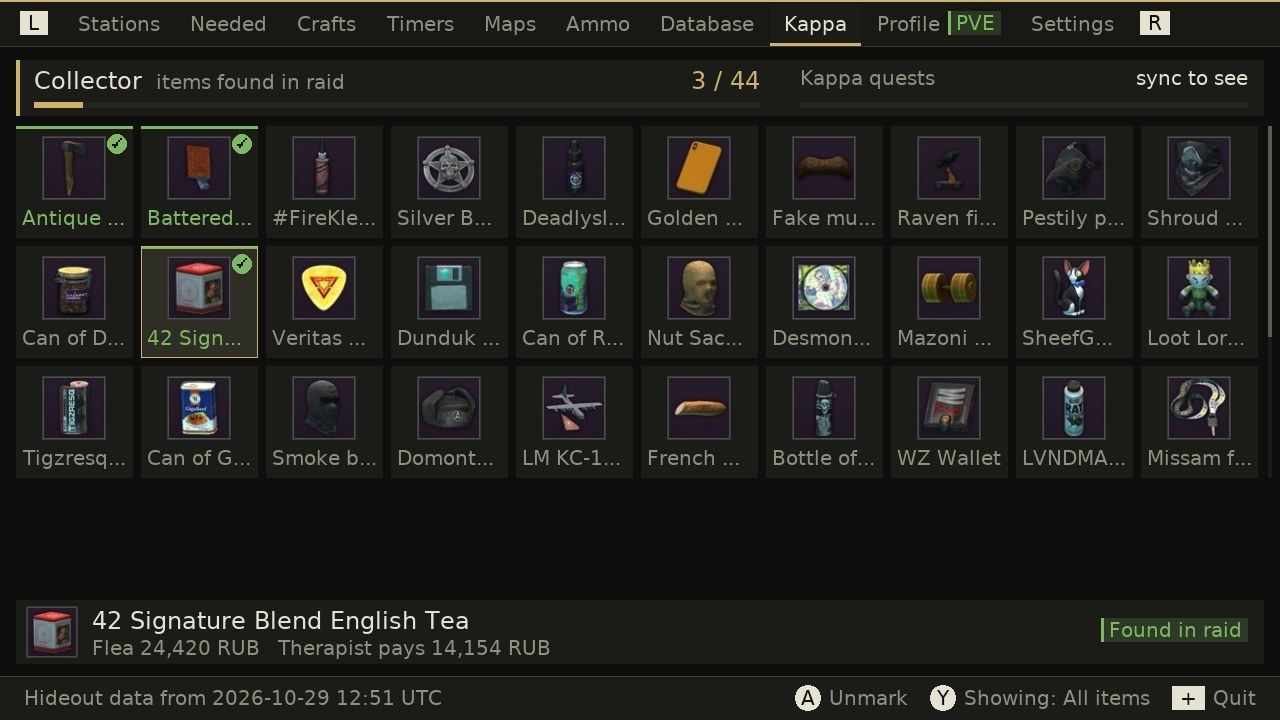
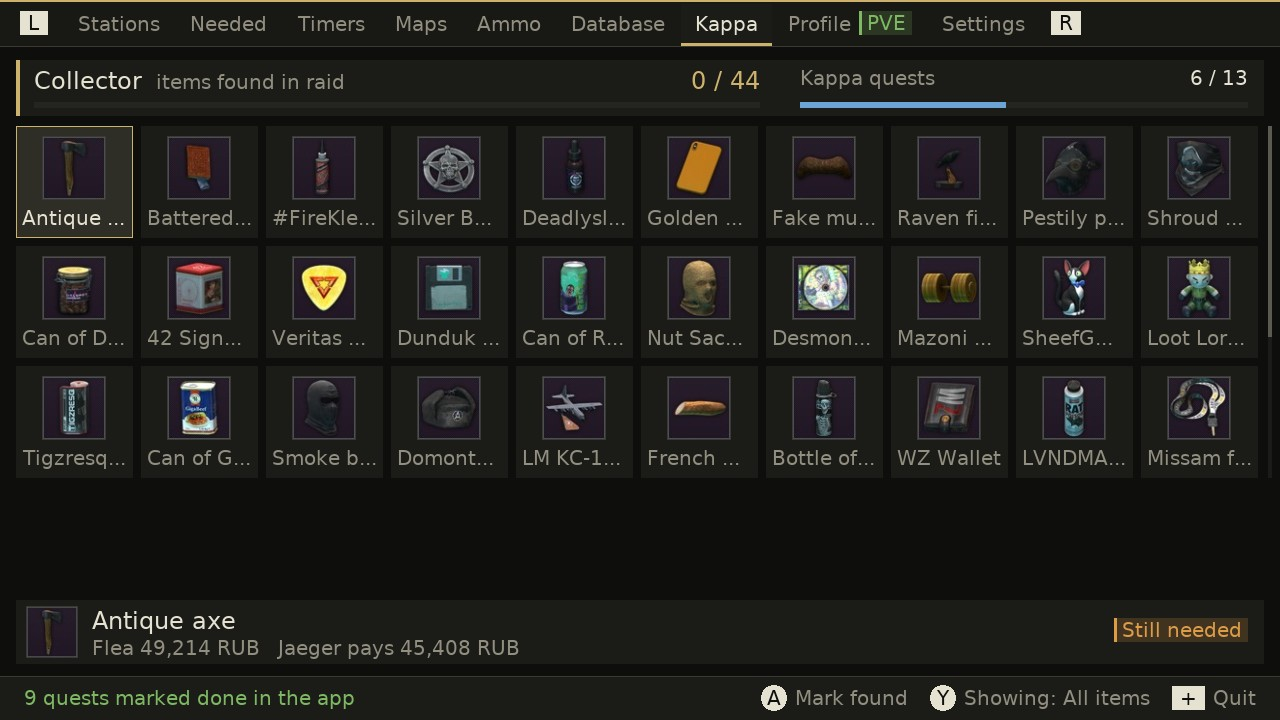
README for v2.10: game-style quests, catch-up, crafts in Stations, fresh screenshots
Every screenshot retaken on 2.10, plus a new Quests section and a
catch-up shot; PC quests shot at 80% interface zoom.

Claude-Session: https://claude.ai/code/session_01GNe8SWobboAS4qPwUUkAPH

diff --git a/README.md b/README.md
@@ -3,11 +3,11 @@
 # Tarkov Hideout for Switch, PC and Android
 
 **An offline Escape From Tarkov companion for Nintendo Switch homebrew, Windows, Linux and Android tablets.**
-Hideout planner, craft timers, sharp interactive maps, an ammo chart, a Kappa tracker and a quest database, in 13 color themes, in your hands between raids or on your second screen while you play.
+Hideout planner and craft timers, sharp interactive maps, an ammo chart, a quest screen like the game's, a Kappa tracker and a quest database, in 13 color themes, in your hands between raids or on your second screen while you play.
 
-![Maps, ammo chart, quest guide, Kappa tracker, theme picker and hideout stations](docs/screenshots/hero.jpg)
+![Maps, ammo chart, trader quests, Kappa tracker, theme picker and hideout stations](docs/screenshots/hero.jpg)
 
-[Install](#install) · [PC](#pc-second-screen) · [Android](#android-tablets-and-chromebooks) · [Hideout](#hideout) · [Maps](#maps) · [Ammo](#ammo) · [Database](#database) · [Kappa](#kappa) · [Themes](#themes) · [Profile and sync](#profile-and-tarkovtracker-sync) · [Controls](#controls) · [Building](#building)
+[Install](#install) · [PC](#pc-second-screen) · [Android](#android-tablets-and-chromebooks) · [Hideout](#hideout) · [Maps](#maps) · [Ammo](#ammo) · [Quests](#quests) · [Database](#database) · [Kappa](#kappa) · [Themes](#themes) · [Profile and sync](#profile-and-tarkovtracker-sync) · [Controls](#controls) · [Building](#building)
 
 </div>
 
@@ -16,11 +16,12 @@ Hideout planner, craft timers, sharp interactive maps, an ammo chart, a Kappa tr
 ## Highlights
 
 - **Every hideout station and level**, with the items, tools and skills each one needs, and what you still have to find across the whole hideout.
-- **Craft timers** that keep running while the Switch sleeps.
+- **Crafts and timers** right next to your stations, with timers that keep running while the Switch sleeps.
 - **16 maps built from the game's own renders**, sharp up to 16x zoom, with extracts, transits, boss spawns and every floor of the multi-level maps.
 - **An ammo tab** with an eft-ammo style damage vs penetration chart. Pin rounds to compare them.
 - **A quest screen like the game's**: trader portraits, quests grouped by loyalty level, and a side panel with requirements, objectives and rewards. Hide the quests you can't take yet once you sync.
-- **Quest database** with wiki guides, pictures included, next to objectives, map pins and rewards.
+- **Catch up your quest history in a few presses**: point at the quests you're on, and everything before them is marked done, on TarkovTracker too.
+- **Quest guides** from the wiki, pictures included, next to objectives, map pins and rewards.
 - **Kappa tracker** for every Collector item, saved as you find them, with Kappa quest progress.
 - **13 color themes** with a live-preview picker: OLED, Catppuccin, Nord, Dracula, Gruvbox, Light and more.
 - **TarkovTracker sync that never loses your work**: it merges with the hideout levels you set in the app.
@@ -70,7 +71,7 @@ The PC version is the same app with the same tabs, data and TarkovTracker sync, 
 <td colspan="2"><img src="docs/screenshots/pc-map.jpg" alt="Customs on PC, zoomed in with the wheel"></td>
 </tr>
 <tr>
-<td width="50%"><img src="docs/screenshots/pc-quest.jpg" alt="Quest page on PC"></td>
+<td width="50%"><img src="docs/screenshots/pc-quests.jpg" alt="Quests on PC at 80% interface zoom"></td>
 <td width="50%"><img src="docs/screenshots/pc-ammo.jpg" alt="Ammo chart on PC"></td>
 </tr>
 </table>
@@ -86,7 +87,7 @@ The PC version is the same app with the same tabs, data and TarkovTracker sync, 
   | PgUp / PgDn | Same as ZL / ZR (floors, sections, levels) |
   | X, Y | Same as the Switch buttons |
   | Ctrl+F | Search |
-  | F | Fullscreen map |
+  | F | Same as the Switch's - button: fullscreen map, stations / crafts, show locked quests |
   | R | Game render / vector plan |
   | F11 | Fullscreen window |
   | Ctrl + / Ctrl - / Ctrl 0 | Interface zoom: smaller, larger, reset (Ctrl+wheel too) |
@@ -115,7 +116,7 @@ Progress and downloads stay in the app's private storage and are kept across upd
 <td width="50%"><img src="docs/screenshots/needed.jpg" alt="Needed items"></td>
 </tr>
 <tr>
-<td><b>Stations</b>. Pick a station to see the next level's requirements, mark levels as built and track item counts. Found-in-raid items are tagged.</td>
+<td><b>Stations</b>. Pick a station to see the next level's requirements, mark levels as built and track item counts. Found-in-raid items are tagged. The <b>Stations | Crafts</b> switch at the top (or -) flips to crafts.</td>
 <td><b>Needed</b>. Everything still missing across the hideout, with which stations want it. Y shows only found-in-raid items.</td>
 </tr>
 <tr>
@@ -123,7 +124,7 @@ Progress and downloads stay in the app's private storage and are kept across upd
 <td><img src="docs/screenshots/timers.jpg" alt="Timers"></td>
 </tr>
 <tr>
-<td><b>Crafts</b>. Inside the Stations tab: press - or tap Crafts at the top. Recipes at the stations you've built, filterable by station. A starts a timer.</td>
+<td><b>Crafts</b>. Recipes at the stations you've built, filterable by station. A starts a timer.</td>
 <td><b>Timers</b>. Running and finished crafts. Collect or cancel them here.</td>
 </tr>
 </table>
@@ -161,24 +162,37 @@ Press Minus for a fullscreen map. Quest objectives and key locks open the map wi
 
 Every round with damage, penetration, armor damage and fragmentation, filterable by caliber. The chart plots damage against penetration with armor class columns, like [eft-ammo.com](https://eft-ammo.com). Pin up to eight rounds with A to compare them in color. The panel below shows speed, flea price and a rough read of each armor class.
 
+## Quests
+
+<img src="docs/screenshots/quests.jpg" alt="Quests by trader and loyalty level">
+
+Laid out like the game's trader screen. Pick a trader from the portraits along the top (each shows how many of its quests you've done), or ALL. Quests are grouped under the loyalty level they need, and the panel on the right shows the selected quest's requirements (green when met), initial equipment, objectives and rewards.
+
+- Each quest is marked **done** (green), **available** (ring) or **locked** (padlock: a quest before it isn't done, or your level is too low).
+- **Show completed** (X) brings back finished quests. **Show locked** (-) hides the ones you can't take yet, once you've synced with TarkovTracker. The same switch is in Settings as *Hide quests I can't take yet*.
+- **Search** (Y) looks through every trader and shows done and locked quests too.
+
+<table>
+<tr>
+<td width="50%"><img src="docs/screenshots/quest.jpg" alt="Quest page"></td>
+<td width="50%"><img src="docs/screenshots/quest-catchup.jpg" alt="Catching up with X"></td>
+</tr>
+<tr>
+<td><b>Quest page</b>. A opens it: the wiki guide with its pictures on the left; requirements, objectives (with Gunsmith build specs), map pins and rewards on the right. Y cycles guide + details, guide only and details only.</td>
+<td><b>Catching up</b>. On a quest you're on, X ("I'm on this one") marks every quest before it in its chain done, and sends them to TarkovTracker when your token can write. See <a href="#profile-and-tarkovtracker-sync">sync</a>.</td>
+</tr>
+</table>
+
 ## Database
 
 <table>
 <tr>
-<td width="50%"><img src="docs/screenshots/quests.jpg" alt="Quest list"></td>
-<td width="50%"><img src="docs/screenshots/quest.jpg" alt="Quest page"></td>
+<td width="50%"><img src="docs/screenshots/keys.jpg" alt="Keys"></td>
+<td width="50%"><img src="docs/screenshots/quest-guide.jpg" alt="Guide only"></td>
 </tr>
 <tr>
-<td><b>Quests</b>. Laid out like the game's trader screen: pick a trader from the portraits, quests are grouped by loyalty level, and the panel on the right shows what the selected quest needs and pays. Quests done on TarkovTracker are hidden unless you tick Show completed (X). After a sync, Show locked (-) hides quests you can't take yet.</td>
-<td><b>Quest page</b>. The wiki guide with its pictures on the left. Requirements, objectives (with Gunsmith build specs), map pins and rewards on the right.</td>
-</tr>
-<tr>
-<td><img src="docs/screenshots/quest-guide.jpg" alt="Guide only"></td>
-<td><img src="docs/screenshots/keys.jpg" alt="Keys"></td>
-</tr>
-<tr>
-<td><b>Guide only</b>. Y cycles guide + details, guide only and details only.</td>
 <td><b>Keys</b>. What each key opens, which quests need it and where its lock is on the map.</td>
+<td><b>Guide only</b>. The wiki guide across the whole screen, pictures included.</td>
 </tr>
 </table>
 
@@ -241,12 +255,12 @@ Switch buttons. On PC, see [PC second screen](#pc-second-screen) for the mouse a
 | Stations | X | Undo the last built level |
 | Stations | Right | Edit item counts for the shown level |
 | Item counts | A / X / Y | +1 / -1 / all or none |
-| Needed items | Left / Right | Page through the list |
-| Needed items | Y | Show only found-in-raid items |
 | Stations | - | Switch between stations and crafts |
 | Crafts | Left / Right | Filter by station |
 | Crafts | A | Start a timer, or collect a finished one |
 | Crafts, Timers | X | Cancel a timer |
+| Needed items | Left / Right | Page through the list |
+| Needed items | Y | Show only found-in-raid items |
 | Map picker | D-pad, A | Choose a map, open it |
 | Maps | Left stick, touch | Pan |
 | Maps | Right stick, A / X | Zoom in / out |
@@ -261,11 +275,12 @@ Switch buttons. On PC, see [PC second screen](#pc-second-screen) for the mouse a
 | Ammo | A | Pin or unpin the round on the chart |
 | Ammo | ZL / ZR | Page through the list |
 | Ammo | Y / X | Search / clear search, then clear the chart |
-| Database | ZL / ZR | Switch section |
-| Database | Left / Right | Pick a trader (page in Keys and Items) |
-| Database | Y / X | Search / clear search |
-| Quests | X | Show or hide completed quests |
+| Database | ZL / ZR | Switch section: quests, keys, items |
+| Quests | Left / Right | Pick a trader |
+| Quests | X | Show or hide completed quests (clears the search first) |
 | Quests | - | Show or hide locked quests (after a sync) |
+| Database | Y / X | Search / clear search |
+| Keys, Items | Left / Right | Page through the list |
 | Database | A | Open quest, show key lock on the map |
 | Quest page | Up / Down, A | Pick an objective or item, show it on the map |
 | Quest page | X | Mark every earlier quest done ("I'm on this one"), then this one, then undo |
